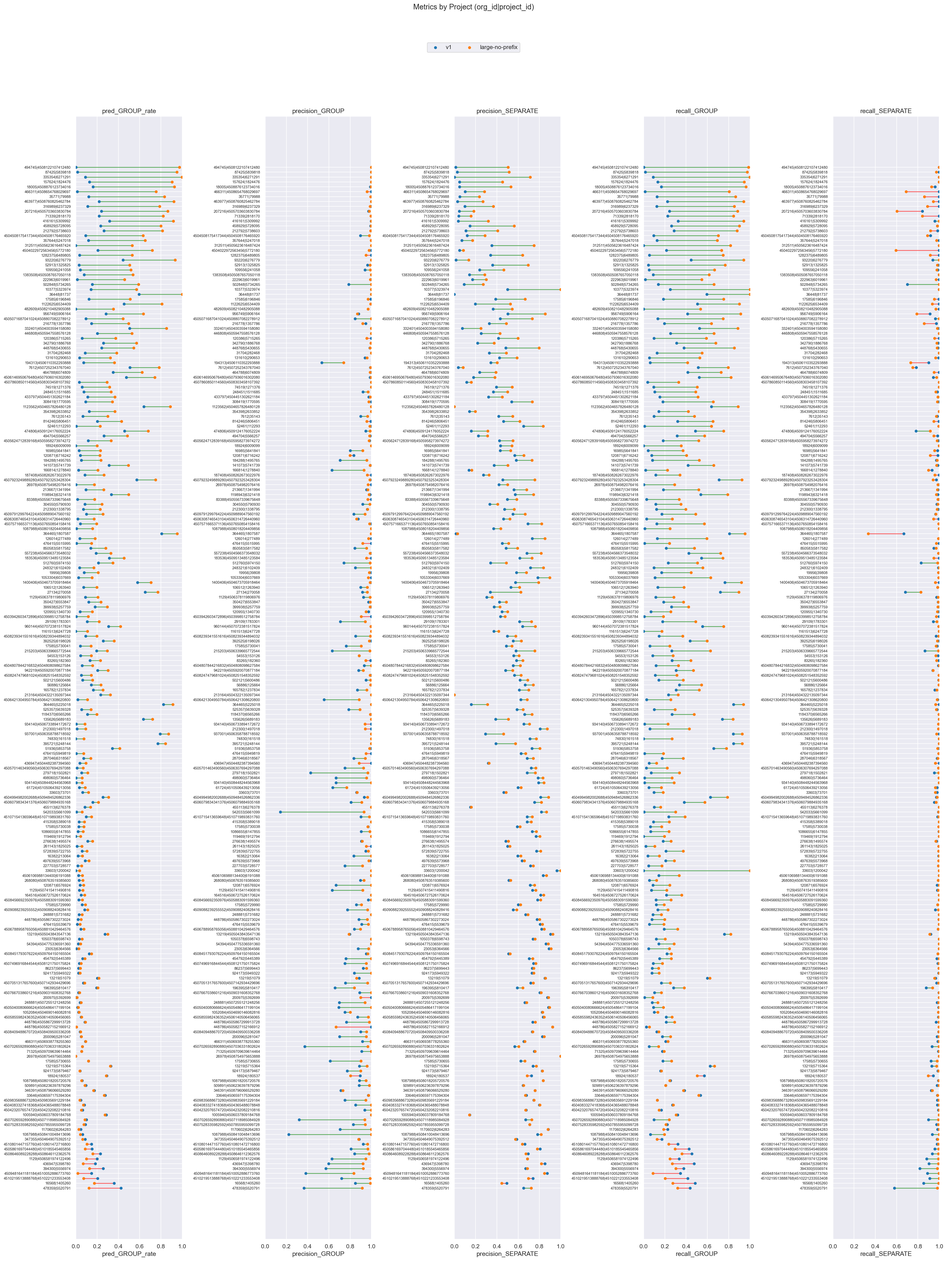
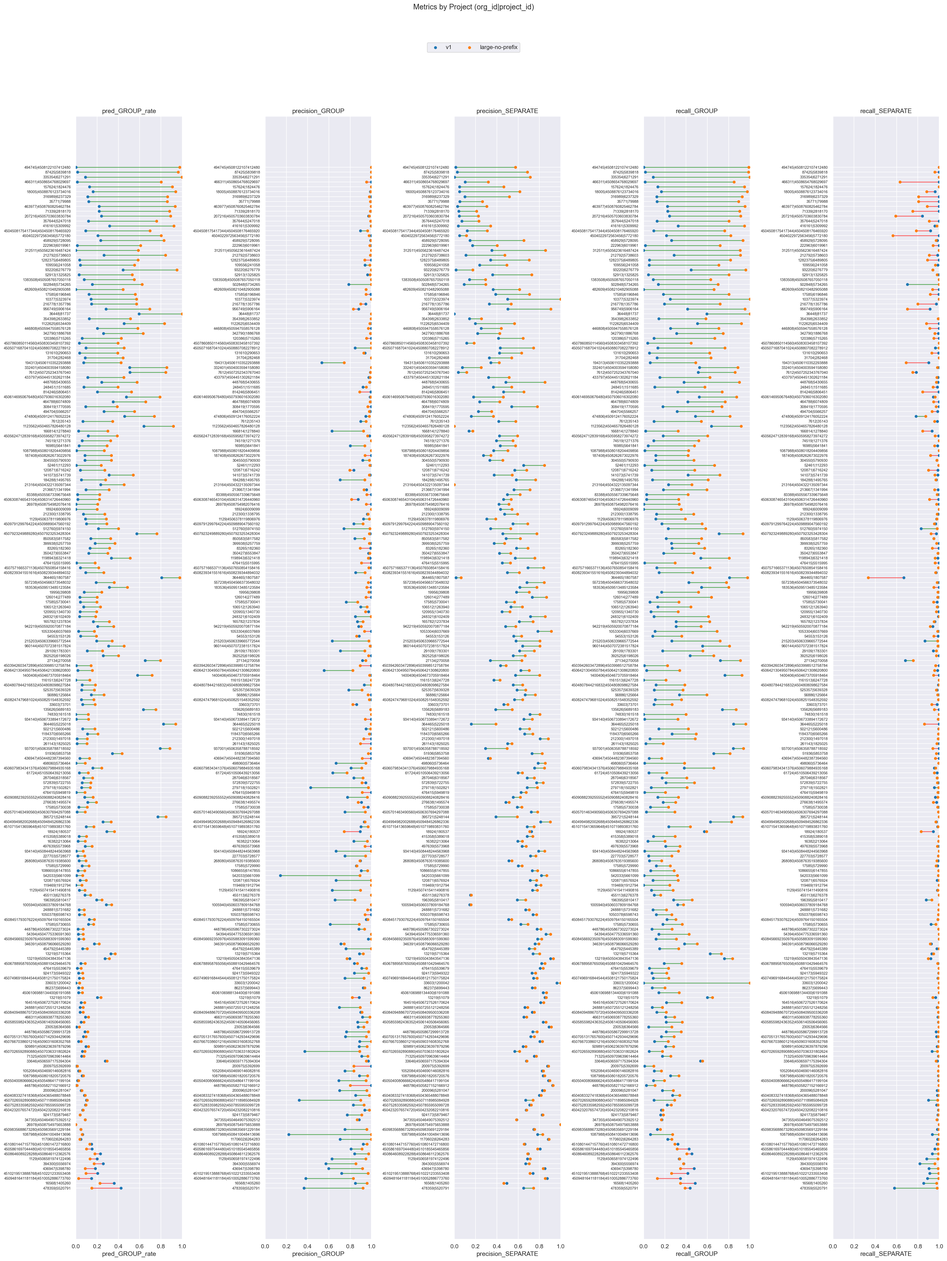
thresholds cli arg not yaml

diff --git a/eval/compare.py b/eval/compare.py
@@ -15,12 +15,13 @@ python eval/compare.py \
     --threshold_model2 0.90 \
     --dim_model2 64
 
+# Platform-specific thresholds (comma-separated platform=value, must include "default"):
 python eval/compare.py \
     --name_model1 v2 \
     --name_model2 large-con \
     --gcs_model1 gs://grouping-data/runs/issue_grouping_v2/similarities/test_full2 \
     --gcs_model2 gs://grouping-data/runs/2026-04-07-11-56-28-large-con/similarities/test_full2 \
-    --threshold_model1 0.90 \
+    --threshold_model1 default=0.92,cocoa=0.80,csharp=0.75,go=0.80,node=0.90 \
     --threshold_model2 0.90 \
     --dim_model2 64
 """
@@ -38,7 +39,6 @@ import gspread
 import matplotlib.pyplot as plt
 import polars as pl
 import seaborn as sns
-import yaml
 from google.auth import default as google_auth_default
 from tap import tapify
 from tqdm.auto import tqdm
@@ -1090,19 +1090,21 @@ def compare_metrics_by_stacktrace_length(
 COLS_JOIN = ["query_stacktrace_string", "candidate_stacktrace_string"]
 
 
-def _load_thresholds(path_model: Path, threshold_default: float) -> float | dict[str, float]:
-    """Load platform-specific thresholds from a YAML file next to the similarities CSV.
+def _parse_threshold(value: str) -> float | dict[str, float]:
+    """Parse a threshold CLI argument.
 
-    If thresholds.yaml exists, returns a dict with platform keys and a "default" key.
-    Otherwise returns threshold_default as a flat float.
+    Accepts either a plain float (e.g. "0.99") or comma-separated platform=value
+    pairs (e.g. "default=0.92,cocoa=0.80,csharp=0.75"). The latter must include
+    a "default" key.
     """
-    path_yaml = path_model.parent / "thresholds.yaml"
-    if not path_yaml.exists():
-        return threshold_default
-    with open(path_yaml) as f:
-        thresholds = yaml.safe_load(f)
-    thresholds.setdefault("default", threshold_default)
-    print(f"Loaded thresholds from {path_yaml}")
+    if "=" not in value:
+        return float(value)
+    thresholds = {}
+    for part in value.split(","):
+        platform, thresh = part.split("=", 1)
+        thresholds[platform.strip()] = float(thresh.strip())
+    if "default" not in thresholds:
+        raise ValueError(f"Platform-specific thresholds must include a 'default' key, got: {value}")
     return thresholds
 
 
@@ -1190,8 +1192,8 @@ def main(
     name_model2: str,
     dim_model1: int = 768,
     dim_model2: int = 768,
-    threshold_model1: float = 0.99,
-    threshold_model2: float = 0.90,
+    threshold_model1: str = "0.99",
+    threshold_model2: str = "0.90",
     min_group_rate_increase: float = 0.15,
     min_group_rate_decrease: float = 0.10,
     max_display_projects: int = 30,
@@ -1221,11 +1223,10 @@ def main(
     name_model2
         Short alias for model 2 used in output columns and file names.
     threshold_model1
-        Default cosine similarity threshold for model 1. Overridden per-platform
-        if a thresholds.yaml exists next to the CSV.
+        Cosine similarity threshold for model 1. Either a plain float (e.g. "0.99")
+        or comma-separated platform=value pairs (e.g. "default=0.92,cocoa=0.80,node=0.90").
     threshold_model2
-        Default cosine similarity threshold for model 2. Overridden per-platform
-        if a thresholds.yaml exists next to the CSV.
+        Cosine similarity threshold for model 2. Same format as threshold_model1.
     min_group_rate_increase
         Flag projects where model2 GROUP rate exceeds model1 by at least this amount.
     min_group_rate_decrease
@@ -1279,8 +1280,8 @@ def main(
     dir_output.mkdir(parents=True, exist_ok=True)
 
     thresholds = {
-        name_model1: _load_thresholds(path1, threshold_model1),
-        name_model2: _load_thresholds(path2, threshold_model2),
+        name_model1: _parse_threshold(threshold_model1),
+        name_model2: _parse_threshold(threshold_model2),
     }
 
     report(f"# {name_model1} (dim={label_dim1}) vs {name_model2} (dim={label_dim2}), dataset: {name_dataset}\n")
@@ -1333,13 +1334,14 @@ def main(
 
     # Threshold sweep for model2
     sweep_thresholds(df, name_model2)
-    threshold2 = thresholds[name_model2]
+    threshold1_parsed = thresholds[name_model1]
+    threshold2_parsed = thresholds[name_model2]
     sweep_thresholds_by_project(
         df,
         name_model2,
-        thresholds_platform=threshold2 if isinstance(threshold2, dict) else None,
+        thresholds_platform=threshold2_parsed if isinstance(threshold2_parsed, dict) else None,
         baseline_model=name_model1,
-        baseline_threshold=threshold_model1,
+        baseline_threshold=threshold1_parsed if isinstance(threshold1_parsed, float) else threshold1_parsed["default"],
     )
 
     report("\n## Platform-level results\n")
@@ -1365,6 +1367,17 @@ def main(
         report_plot(f"Similarity distribution ({name})", filename)
 
     report("\n## Project-level results\n")
+
+    m1, m2 = result.model_names
+    pm = result.project_metrics
+    wins = pm.filter(
+        (pl.col(f"{m2}_precision_GROUP") > pl.col(f"{m1}_precision_GROUP"))
+        & (pl.col(f"{m2}_recall_GROUP") > pl.col(f"{m1}_recall_GROUP"))
+    )
+    report(
+        f"**Project win rate for {m2}**: {len(wins)}/{len(pm)}"
+        f" ({len(wins) / len(pm):.0%}) projects where both precision_GROUP and recall_GROUP are higher\n"
+    )
 
     fig = plot_dumbbell_by_project(result.project_metrics, result.model_names)
     fig.savefig(dir_output / "dumbbell_by_project.png", dpi=150, bbox_inches="tight")

diff --git a/eval/comparisons/test_full2/v1_dim768_vs_large-no-prefix_dim64/README.md b/eval/comparisons/test_full2/v1_dim768_vs_large-no-prefix_dim64/README.md
@@ -9,7 +9,7 @@ python eval/compare.py \
     --gcs_model1 gs://grouping-data/runs/issue_grouping_v1/similarities/test_full2 \
     --gcs_model2 gs://grouping-data/runs/2026-04-10-12-39-45-large-no-prefix/similarities/test_full2 \
     --threshold_model1 0.99 \
-    --threshold_model2 0.92 \
+    --threshold_model2 0.90 \
     --dim_model2 64 \
     --overwrite
 ```
@@ -31,29 +31,29 @@ python eval/compare.py \
 | model           | pred_GROUP_rate | precision_GROUP | precision_SEPARATE | recall_GROUP | recall_SEPARATE |
 |-----------------|-----------------|-----------------|--------------------|--------------|-----------------|
 | v1              | 0.16            | 0.94            | 0.43               | 0.24         | 0.97            |
-| large-no-prefix | 0.4             | 0.98            | 0.61               | 0.62         | 0.98            |
+| large-no-prefix | 0.44            | 0.97            | 0.64               | 0.68         | 0.97            |
 
 ### Project-averaged metrics (210 projects)
 
 | model           | pred_GROUP_rate | precision_GROUP | precision_SEPARATE | recall_GROUP | recall_SEPARATE |
 |-----------------|-----------------|-----------------|--------------------|--------------|-----------------|
 | v1              | 0.14            | 0.88            | 0.51               | 0.21         | 0.97            |
-| large-no-prefix | 0.3             | 0.96            | 0.61               | 0.46         | 0.97            |
+| large-no-prefix | 0.33            | 0.95            | 0.64               | 0.52         | 0.95            |
 
 ### Conditional probabilities
 
-P(large-no-prefix GROUP | v1 GROUP)    = 0.8330
+P(large-no-prefix GROUP | v1 GROUP)    = 0.8629
 
-P(large-no-prefix GROUP | v1 SEPARATE) = 0.3115
+P(large-no-prefix GROUP | v1 SEPARATE) = 0.3520
 
-P(large-no-prefix GROUP | v1 GROUP, distance < 0.005) = 0.8995  (n=16378)
+P(large-no-prefix GROUP | v1 GROUP, distance < 0.005) = 0.9198  (n=16378)
 
 ### Thresholds
 
 ```json
 {
   "v1": 0.99,
-  "large-no-prefix": 0.92
+  "large-no-prefix": 0.9
 }
 ```
 
@@ -94,7 +94,7 @@ label GROUP rate: 81.67%
 | model           | pred_GROUP_rate | precision_GROUP | precision_SEPARATE | recall_GROUP | recall_SEPARATE |
 |-----------------|-----------------|-----------------|--------------------|--------------|-----------------|
 | v1              | 0.17            | 0.97            | 0.21               | 0.2          | 0.98            |
-| large-no-prefix | 0.45            | 0.99            | 0.32               | 0.55         | 0.97            |
+| large-no-prefix | 0.52            | 0.98            | 0.36               | 0.63         | 0.95            |
 
 ### Long stacktraces (query_tokens >= p90 = 931 tokens, 23577 pairs)
 
@@ -102,7 +102,7 @@ label GROUP rate: 70.76%
 | model           | pred_GROUP_rate | precision_GROUP | precision_SEPARATE | recall_GROUP | recall_SEPARATE |
 |-----------------|-----------------|-----------------|--------------------|--------------|-----------------|
 | v1              | 0.19            | 0.98            | 0.36               | 0.26         | 0.98            |
-| large-no-prefix | 0.52            | 0.99            | 0.59               | 0.72         | 0.97            |
+| large-no-prefix | 0.56            | 0.98            | 0.64               | 0.78         | 0.96            |
 
 ## Threshold sweep
 
@@ -134,20 +134,20 @@ label GROUP rate: 70.76%
 | python     | 17559   | 15         | 0.535            | 0.99          | 0.077           | 0.887           | 0.475              | 0.117        | 0.981           |
 | ruby       | 12943   | 15         | 0.61             | 0.99          | 0.069           | 0.897           | 0.437              | 0.105        | 0.978           |
 
-### Metrics by platform, avg over projects (large-no-prefix, threshold=0.92)
+### Metrics by platform, avg over projects (large-no-prefix, threshold=0.9)
 
 | platform   | n_pairs | n_projects | label_GROUP_rate | min_threshold | pred_GROUP_rate | precision_GROUP | precision_SEPARATE | recall_GROUP | recall_SEPARATE |
 |------------|---------|------------|------------------|---------------|-----------------|-----------------|--------------------|--------------|-----------------|
-| cocoa      | 35279   | 66         | 0.365            | 0.92          | 0.148           | 0.934           | 0.658              | 0.257        | 0.981           |
-| csharp     | 25468   | 27         | 0.662            | 0.92          | 0.381           | 0.962           | 0.615              | 0.579        | 0.958           |
-| go         | 23302   | 14         | 0.91             | 0.92          | 0.59            | 0.995           | 0.404              | 0.7          | 0.971           |
-| java       | 25776   | 70         | 0.368            | 0.92          | 0.131           | 0.962           | 0.702              | 0.286        | 0.99            |
-| javascript | 62545   | 82         | 0.781            | 0.92          | 0.499           | 0.944           | 0.447              | 0.624        | 0.915           |
-| native     | 8834    | 49         | 0.272            | 0.92          | 0.159           | 0.892           | 0.796              | 0.383        | 0.972           |
-| node       | 11573   | 20         | 0.825            | 0.92          | 0.43            | 0.986           | 0.402              | 0.494        | 0.98            |
-| php        | 12019   | 14         | 0.722            | 0.92          | 0.372           | 0.973           | 0.641              | 0.579        | 0.948           |
-| python     | 17559   | 15         | 0.535            | 0.92          | 0.256           | 0.966           | 0.589              | 0.426        | 0.972           |
-| ruby       | 12943   | 15         | 0.61             | 0.92          | 0.225           | 0.939           | 0.505              | 0.353        | 0.975           |
+| cocoa      | 35279   | 66         | 0.365            | 0.9           | 0.177           | 0.931           | 0.682              | 0.319        | 0.975           |
+| csharp     | 25468   | 27         | 0.662            | 0.9           | 0.415           | 0.943           | 0.64               | 0.629        | 0.944           |
+| go         | 23302   | 14         | 0.91             | 0.9           | 0.625           | 0.993           | 0.435              | 0.744        | 0.956           |
+| java       | 25776   | 70         | 0.368            | 0.9           | 0.153           | 0.951           | 0.716              | 0.335        | 0.985           |
+| javascript | 62545   | 82         | 0.781            | 0.9           | 0.551           | 0.943           | 0.48               | 0.685        | 0.872           |
+| native     | 8834    | 49         | 0.272            | 0.9           | 0.178           | 0.869           | 0.806              | 0.44         | 0.959           |
+| node       | 11573   | 20         | 0.825            | 0.9           | 0.491           | 0.983           | 0.425              | 0.561        | 0.967           |
+| php        | 12019   | 14         | 0.722            | 0.9           | 0.408           | 0.959           | 0.673              | 0.641        | 0.931           |
+| python     | 17559   | 15         | 0.535            | 0.9           | 0.305           | 0.952           | 0.622              | 0.501        | 0.955           |
+| ruby       | 12943   | 15         | 0.61             | 0.9           | 0.273           | 0.92            | 0.526              | 0.418        | 0.952           |
 
 ### Min threshold for >= 95% avg project precision_GROUP by platform (v1)
 
@@ -202,6 +202,8 @@ label GROUP rate: 70.76%
 
 ## Project-level results
 
+**Project win rate for large-no-prefix**: 94/210 (45%) projects where both precision_GROUP and recall_GROUP are higher
+
 
 <details>
 <summary>Dumbbell by project</summary>
@@ -214,45 +216,42 @@ label GROUP rate: 70.76%
 
 | org_id           | project_id       | platform   | n_pairs | label_GROUP_rate | v1_GROUP_rate | v1_prec | v1_rec | large-no-prefix_GROUP_rate | large-no-prefix_prec | large-no-prefix_rec | group_rate_increase |
 |------------------|------------------|------------|---------|------------------|---------------|---------|--------|----------------------------|----------------------|---------------------|---------------------|
-| 494745           | 4508122107412480 | csharp     | 2923    | 0.99             | 0.0           | 1.0     | 0.0    | 0.97                       | 1.0                  | 0.99                | 0.97                |
-| 87425            | 5839818          | javascript | 2733    | 0.97             | 0.02          | 1.0     | 0.02   | 0.95                       | 1.0                  | 0.97                | 0.93                |
+| 494745           | 4508122107412480 | csharp     | 2923    | 0.99             | 0.0           | 1.0     | 0.0    | 0.98                       | 1.0                  | 0.99                | 0.98                |
+| 87425            | 5839818          | javascript | 2733    | 0.97             | 0.02          | 1.0     | 0.02   | 0.96                       | 1.0                  | 0.99                | 0.95                |
 | 335354           | 6271291          | csharp     | 5539    | 1.0              | 0.09          | 1.0     | 0.09   | 1.0                        | 1.0                  | 1.0                 | 0.91                |
+| 466311           | 4508654768029697 | javascript | 2020    | 0.9              | 0.01          | 1.0     | 0.01   | 0.8                        | 0.95                 | 0.85                | 0.79                |
 | 157624           | 1824476          | node       | 1494    | 0.96             | 0.13          | 1.0     | 0.13   | 0.91                       | 1.0                  | 0.95                | 0.78                |
-| 18005            | 4508876123734016 | php        | 5687    | 0.96             | 0.16          | 0.99    | 0.17   | 0.93                       | 1.0                  | 0.96                | 0.76                |
-| 466311           | 4508654768029697 | javascript | 2020    | 0.9              | 0.01          | 1.0     | 0.01   | 0.75                       | 0.96                 | 0.8                 | 0.74                |
-| 35771            | 79988            | javascript | 790     | 0.95             | 0.12          | 1.0     | 0.13   | 0.83                       | 0.99                 | 0.87                | 0.71                |
-| 463977           | 4508760825462784 | javascript | 4758    | 0.98             | 0.22          | 1.0     | 0.22   | 0.92                       | 1.0                  | 0.94                | 0.7                 |
-| 416161           | 5309992          | go         | 1786    | 0.97             | 0.32          | 1.0     | 0.33   | 0.92                       | 1.0                  | 0.94                | 0.6                 |
-| 212792           | 5738603          | node       | 902     | 0.92             | 0.26          | 1.0     | 0.29   | 0.81                       | 0.99                 | 0.88                | 0.55                |
-| 312511           | 4505623616487424 | go         | 17      | 0.65             | 0.0           | NaN     | 0.0    | 0.53                       | 1.0                  | 0.82                | 0.53                |
-| 1383508          | 4505087657050118 | go         | 500     | 0.87             | 0.08          | 1.0     | 0.09   | 0.54                       | 1.0                  | 0.62                | 0.46                |
+| 18005            | 4508876123734016 | php        | 5687    | 0.96             | 0.16          | 0.99    | 0.17   | 0.94                       | 0.99                 | 0.98                | 0.78                |
+| 316989           | 6237329          | javascript | 409     | 0.91             | 0.11          | 1.0     | 0.12   | 0.86                       | 0.98                 | 0.93                | 0.75                |
+| 416161           | 5309992          | go         | 1786    | 0.97             | 0.32          | 1.0     | 0.33   | 0.92                       | 1.0                  | 0.95                | 0.61                |
+| 312511           | 4505623616487424 | go         | 17      | 0.65             | 0.0           | NaN     | 0.0    | 0.59                       | 1.0                  | 0.91                | 0.59                |
+| 212792           | 5738603          | node       | 902     | 0.92             | 0.26          | 1.0     | 0.29   | 0.84                       | 0.99                 | 0.91                | 0.58                |
+| 1383508          | 4505087657050118 | go         | 500     | 0.87             | 0.08          | 1.0     | 0.09   | 0.55                       | 1.0                  | 0.63                | 0.47                |
+| 482609           | 4508210482905088 | python     | 88      | 0.64             | 0.0           | NaN     | 0.0    | 0.44                       | 0.95                 | 0.66                | 0.44                |
 | 10377            | 5323974          | java       | 7       | 0.57             | 0.14          | 1.0     | 0.25   | 0.57                       | 1.0                  | 1.0                 | 0.43                |
-| 1122625          | 6534409          | node       | 2825    | 0.89             | 0.45          | 1.0     | 0.51   | 0.81                       | 0.99                 | 0.9                 | 0.36                |
-| 482609           | 4508210482905088 | python     | 88      | 0.64             | 0.0           | NaN     | 0.0    | 0.35                       | 0.97                 | 0.54                | 0.35                |
-| 956749           | 5906164          | python     | 960     | 0.61             | 0.28          | 0.88    | 0.41   | 0.64                       | 0.87                 | 0.91                | 0.35                |
-| 4505071687041024 | 4508807082278912 | java       | 416     | 0.59             | 0.09          | 0.85    | 0.13   | 0.44                       | 1.0                  | 0.75                | 0.35                |
-| 448768           | 5430655          | php        | 1634    | 0.63             | 0.24          | 0.98    | 0.38   | 0.54                       | 0.99                 | 0.85                | 0.3                 |
-| 131610           | 290653           | php        | 971     | 0.59             | 0.03          | 0.94    | 0.05   | 0.32                       | 0.96                 | 0.53                | 0.29                |
-| 194313           | 4506110352293888 | cocoa      | 202     | 0.65             | 0.07          | 0.53    | 0.06   | 0.36                       | 0.74                 | 0.41                | 0.29                |
-| 74519            | 1271376          | ruby       | 218     | 0.63             | 0.06          | 1.0     | 0.09   | 0.32                       | 1.0                  | 0.5                 | 0.26                |
-| 248451           | 1511685          | python     | 1990    | 0.65             | 0.08          | 0.92    | 0.11   | 0.33                       | 0.97                 | 0.49                | 0.26                |
-| 433797           | 4504451302621184 | ruby       | 2078    | 0.71             | 0.11          | 0.97    | 0.15   | 0.37                       | 0.99                 | 0.51                | 0.26                |
-| 354398           | 2633852          | node       | 2578    | 0.88             | 0.13          | 1.0     | 0.14   | 0.37                       | 1.0                  | 0.42                | 0.24                |
-| 4505624712839168 | 4505958273974272 | ruby       | 1831    | 0.62             | 0.12          | 0.98    | 0.18   | 0.33                       | 0.98                 | 0.52                | 0.21                |
-| 16985            | 5641841          | java       | 160     | 0.57             | 0.03          | 0.8     | 0.04   | 0.23                       | 0.92                 | 0.37                | 0.2                 |
-| 26978            | 4508754982076416 | cocoa      | 715     | 0.58             | 0.0           | 1.0     | 0.0    | 0.17                       | 0.97                 | 0.29                | 0.17                |
-| 1198943          | 6321418          | native     | 467     | 0.61             | 0.33          | 0.99    | 0.54   | 0.5                        | 0.98                 | 0.79                | 0.16                |
-| 83388            | 4505567339675648 | native     | 1130    | 0.51             | 0.02          | 1.0     | 0.03   | 0.18                       | 0.96                 | 0.33                | 0.16                |
-| 304550           | 5790930          | csharp     | 998     | 0.69             | 0.09          | 0.92    | 0.11   | 0.25                       | 0.98                 | 0.35                | 0.16                |
+| 956749           | 5906164          | python     | 960     | 0.61             | 0.28          | 0.88    | 0.41   | 0.69                       | 0.83                 | 0.95                | 0.41                |
+| 354398           | 2633852          | node       | 2578    | 0.88             | 0.13          | 1.0     | 0.14   | 0.51                       | 1.0                  | 0.59                | 0.39                |
+| 4505071687041024 | 4508807082278912 | java       | 416     | 0.59             | 0.09          | 0.85    | 0.13   | 0.45                       | 1.0                  | 0.77                | 0.36                |
+| 131610           | 290653           | php        | 971     | 0.59             | 0.03          | 0.94    | 0.05   | 0.39                       | 0.93                 | 0.62                | 0.36                |
+| 194313           | 4506110352293888 | cocoa      | 202     | 0.65             | 0.07          | 0.53    | 0.06   | 0.43                       | 0.74                 | 0.49                | 0.35                |
+| 433797           | 4504451302621184 | ruby       | 2078    | 0.71             | 0.11          | 0.97    | 0.15   | 0.45                       | 0.99                 | 0.62                | 0.34                |
+| 448768           | 5430655          | php        | 1634    | 0.63             | 0.24          | 0.98    | 0.38   | 0.58                       | 0.98                 | 0.9                 | 0.33                |
+| 248451           | 1511685          | python     | 1990    | 0.65             | 0.08          | 0.92    | 0.11   | 0.4                        | 0.95                 | 0.57                | 0.32                |
+| 166814           | 1278840          | ruby       | 1026    | 0.86             | 0.03          | 0.63    | 0.02   | 0.3                        | 0.93                 | 0.32                | 0.27                |
+| 4505624712839168 | 4505958273974272 | ruby       | 1831    | 0.62             | 0.12          | 0.98    | 0.18   | 0.39                       | 0.96                 | 0.6                 | 0.27                |
+| 16985            | 5641841          | java       | 160     | 0.57             | 0.03          | 0.8     | 0.04   | 0.29                       | 0.94                 | 0.48                | 0.26                |
+| 304550           | 5790930          | csharp     | 998     | 0.69             | 0.09          | 0.92    | 0.11   | 0.33                       | 0.98                 | 0.47                | 0.25                |
+| 83388            | 4505567339675648 | native     | 1130    | 0.51             | 0.02          | 1.0     | 0.03   | 0.22                       | 0.96                 | 0.42                | 0.21                |
+| 26978            | 4508754982076416 | cocoa      | 715     | 0.58             | 0.0           | 1.0     | 0.0    | 0.2                        | 0.95                 | 0.33                | 0.2                 |
+| 1129             | 4506378119806976 | cocoa      | 1494    | 0.72             | 0.09          | 0.92    | 0.11   | 0.29                       | 0.98                 | 0.39                | 0.2                 |
+| 1198943          | 6321418          | native     | 467     | 0.61             | 0.33          | 0.99    | 0.54   | 0.51                       | 0.97                 | 0.8                 | 0.18                |
+| 364465           | 1807587          | csharp     | 686     | 1.0              | 0.81          | 1.0     | 0.81   | 0.98                       | 1.0                  | 0.98                | 0.17                |
 
 ### >= 10% group rate decrease
 
 | org_id           | project_id       | platform | n_pairs | label_GROUP_rate | v1_GROUP_rate | v1_prec | v1_rec | large-no-prefix_GROUP_rate | large-no-prefix_prec | large-no-prefix_rec | group_rate_decrease |
 |------------------|------------------|----------|---------|------------------|---------------|---------|--------|----------------------------|----------------------|---------------------|---------------------|
-| 478359           | 5520791          | cocoa    | 843     | 0.36             | 0.43          | 0.36    | 0.44   | 0.12                       | 0.91                 | 0.32                | 0.3                 |
-| 16568            | 1405260          | ruby     | 533     | 0.63             | 0.36          | 0.85    | 0.49   | 0.17                       | 0.99                 | 0.27                | 0.19                |
-| 4510219513888768 | 4510221233553408 | cocoa    | 3409    | 0.35             | 0.2           | 0.72    | 0.42   | 0.07                       | 0.99                 | 0.2                 | 0.13                |
-| 4509481641181184 | 4510052886773760 | cocoa    | 1378    | 0.16             | 0.15          | 0.38    | 0.35   | 0.02                       | 0.83                 | 0.09                | 0.13                |
-| 394300           | 5556974          | csharp   | 996     | 0.39             | 0.26          | 0.57    | 0.38   | 0.13                       | 0.92                 | 0.3                 | 0.13                |
-| 436947           | 5398780          | cocoa    | 2608    | 0.23             | 0.18          | 0.6     | 0.48   | 0.07                       | 0.92                 | 0.27                | 0.12                |
-| 1129             | 4506581974122496 | java     | 568     | 0.38             | 0.2           | 0.63    | 0.33   | 0.1                        | 0.95                 | 0.25                | 0.1                 |
+| 478359           | 5520791          | cocoa    | 843     | 0.36             | 0.43          | 0.36    | 0.44   | 0.15                       | 0.92                 | 0.39                | 0.28                |
+| 16568            | 1405260          | ruby     | 533     | 0.63             | 0.36          | 0.85    | 0.49   | 0.23                       | 0.96                 | 0.35                | 0.13                |
+| 4509481641181184 | 4510052886773760 | cocoa    | 1378    | 0.16             | 0.15          | 0.38    | 0.35   | 0.03                       | 0.83                 | 0.13                | 0.12                |
+| 4510219513888768 | 4510221233553408 | cocoa    | 3409    | 0.35             | 0.2           | 0.72    | 0.42   | 0.1                        | 0.97                 | 0.26                | 0.11                |
